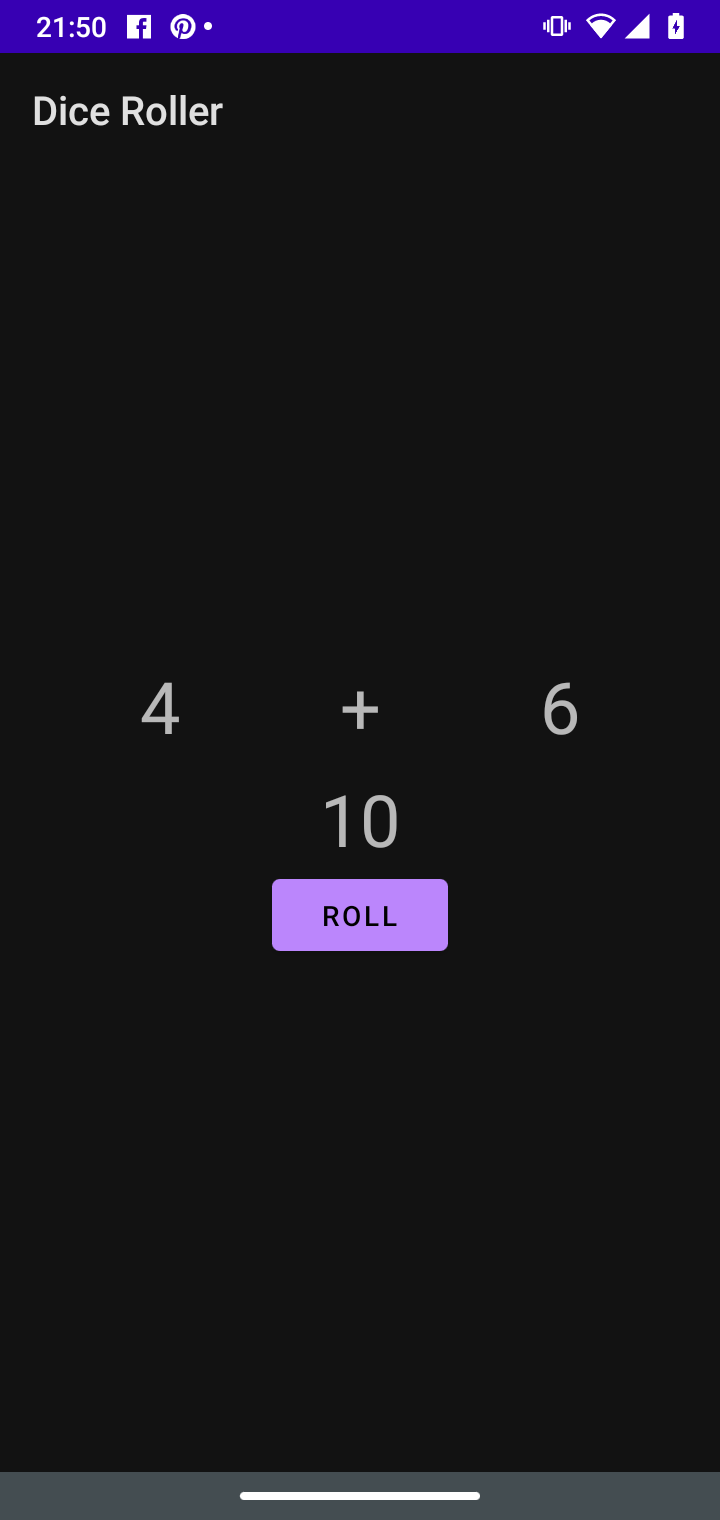
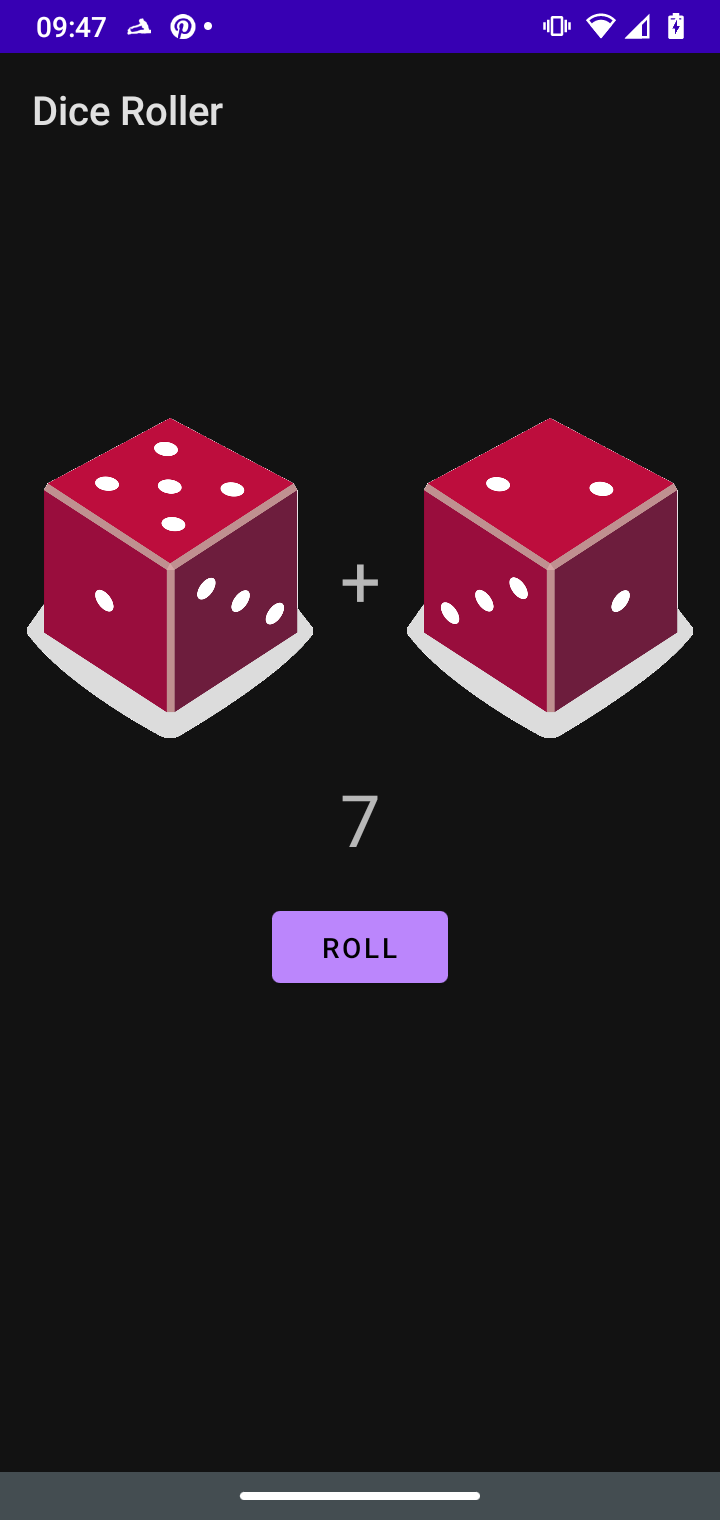
Adding images

diff --git a/app/src/main/java/com/example/diceroller/MainActivity.kt b/app/src/main/java/com/example/diceroller/MainActivity.kt
@@ -2,6 +2,7 @@ package com.example.diceroller
 
 import android.os.Bundle
 import android.widget.Button
+import android.widget.ImageView
 import android.widget.TextView
 import androidx.appcompat.app.AppCompatActivity
 
@@ -29,11 +30,22 @@ class MainActivity : AppCompatActivity() {
         val resultTextView: TextView = findViewById(R.id.textViewResult)
         resultTextView.text = (diceRoll1 + diceRoll2).toString()
 
-        val resultDice1: TextView = findViewById(R.id.textViewDice1)
-        resultDice1.text = (diceRoll1).toString()
+        val resultDice1: ImageView = findViewById(R.id.imageViewDice1)
+        resultDice1.setImageResource(getImage(diceRoll1))
 
-        val resultDice2: TextView = findViewById(R.id.textViewDice2)
-        resultDice2.text = (diceRoll2).toString()
+        val resultDice2: ImageView = findViewById(R.id.imageViewDice2)
+        resultDice2.setImageResource(getImage(diceRoll2))
+    }
+
+    private fun getImage(dice: Int): Int{
+        return when (dice) {
+            1 -> R.drawable.dice_1
+            2 -> R.drawable.dice_2
+            3 -> R.drawable.dice_3
+            4 -> R.drawable.dice_4
+            5 -> R.drawable.dice_5
+            else -> R.drawable.dice_6
+        }
     }
 }
 

diff --git a/README.md b/README.md
@@ -5,3 +5,7 @@ Dice Roller app from Android Basics in Kotlin at developers.google.com.
 It is a simple demo using ConstraintLayout, TextView and Button.
 
 <center><img src="screenshot-Dice-Roller-app.png" height=512 width=288 /></center>
+
+## The extra mile
+
+- Adding images
